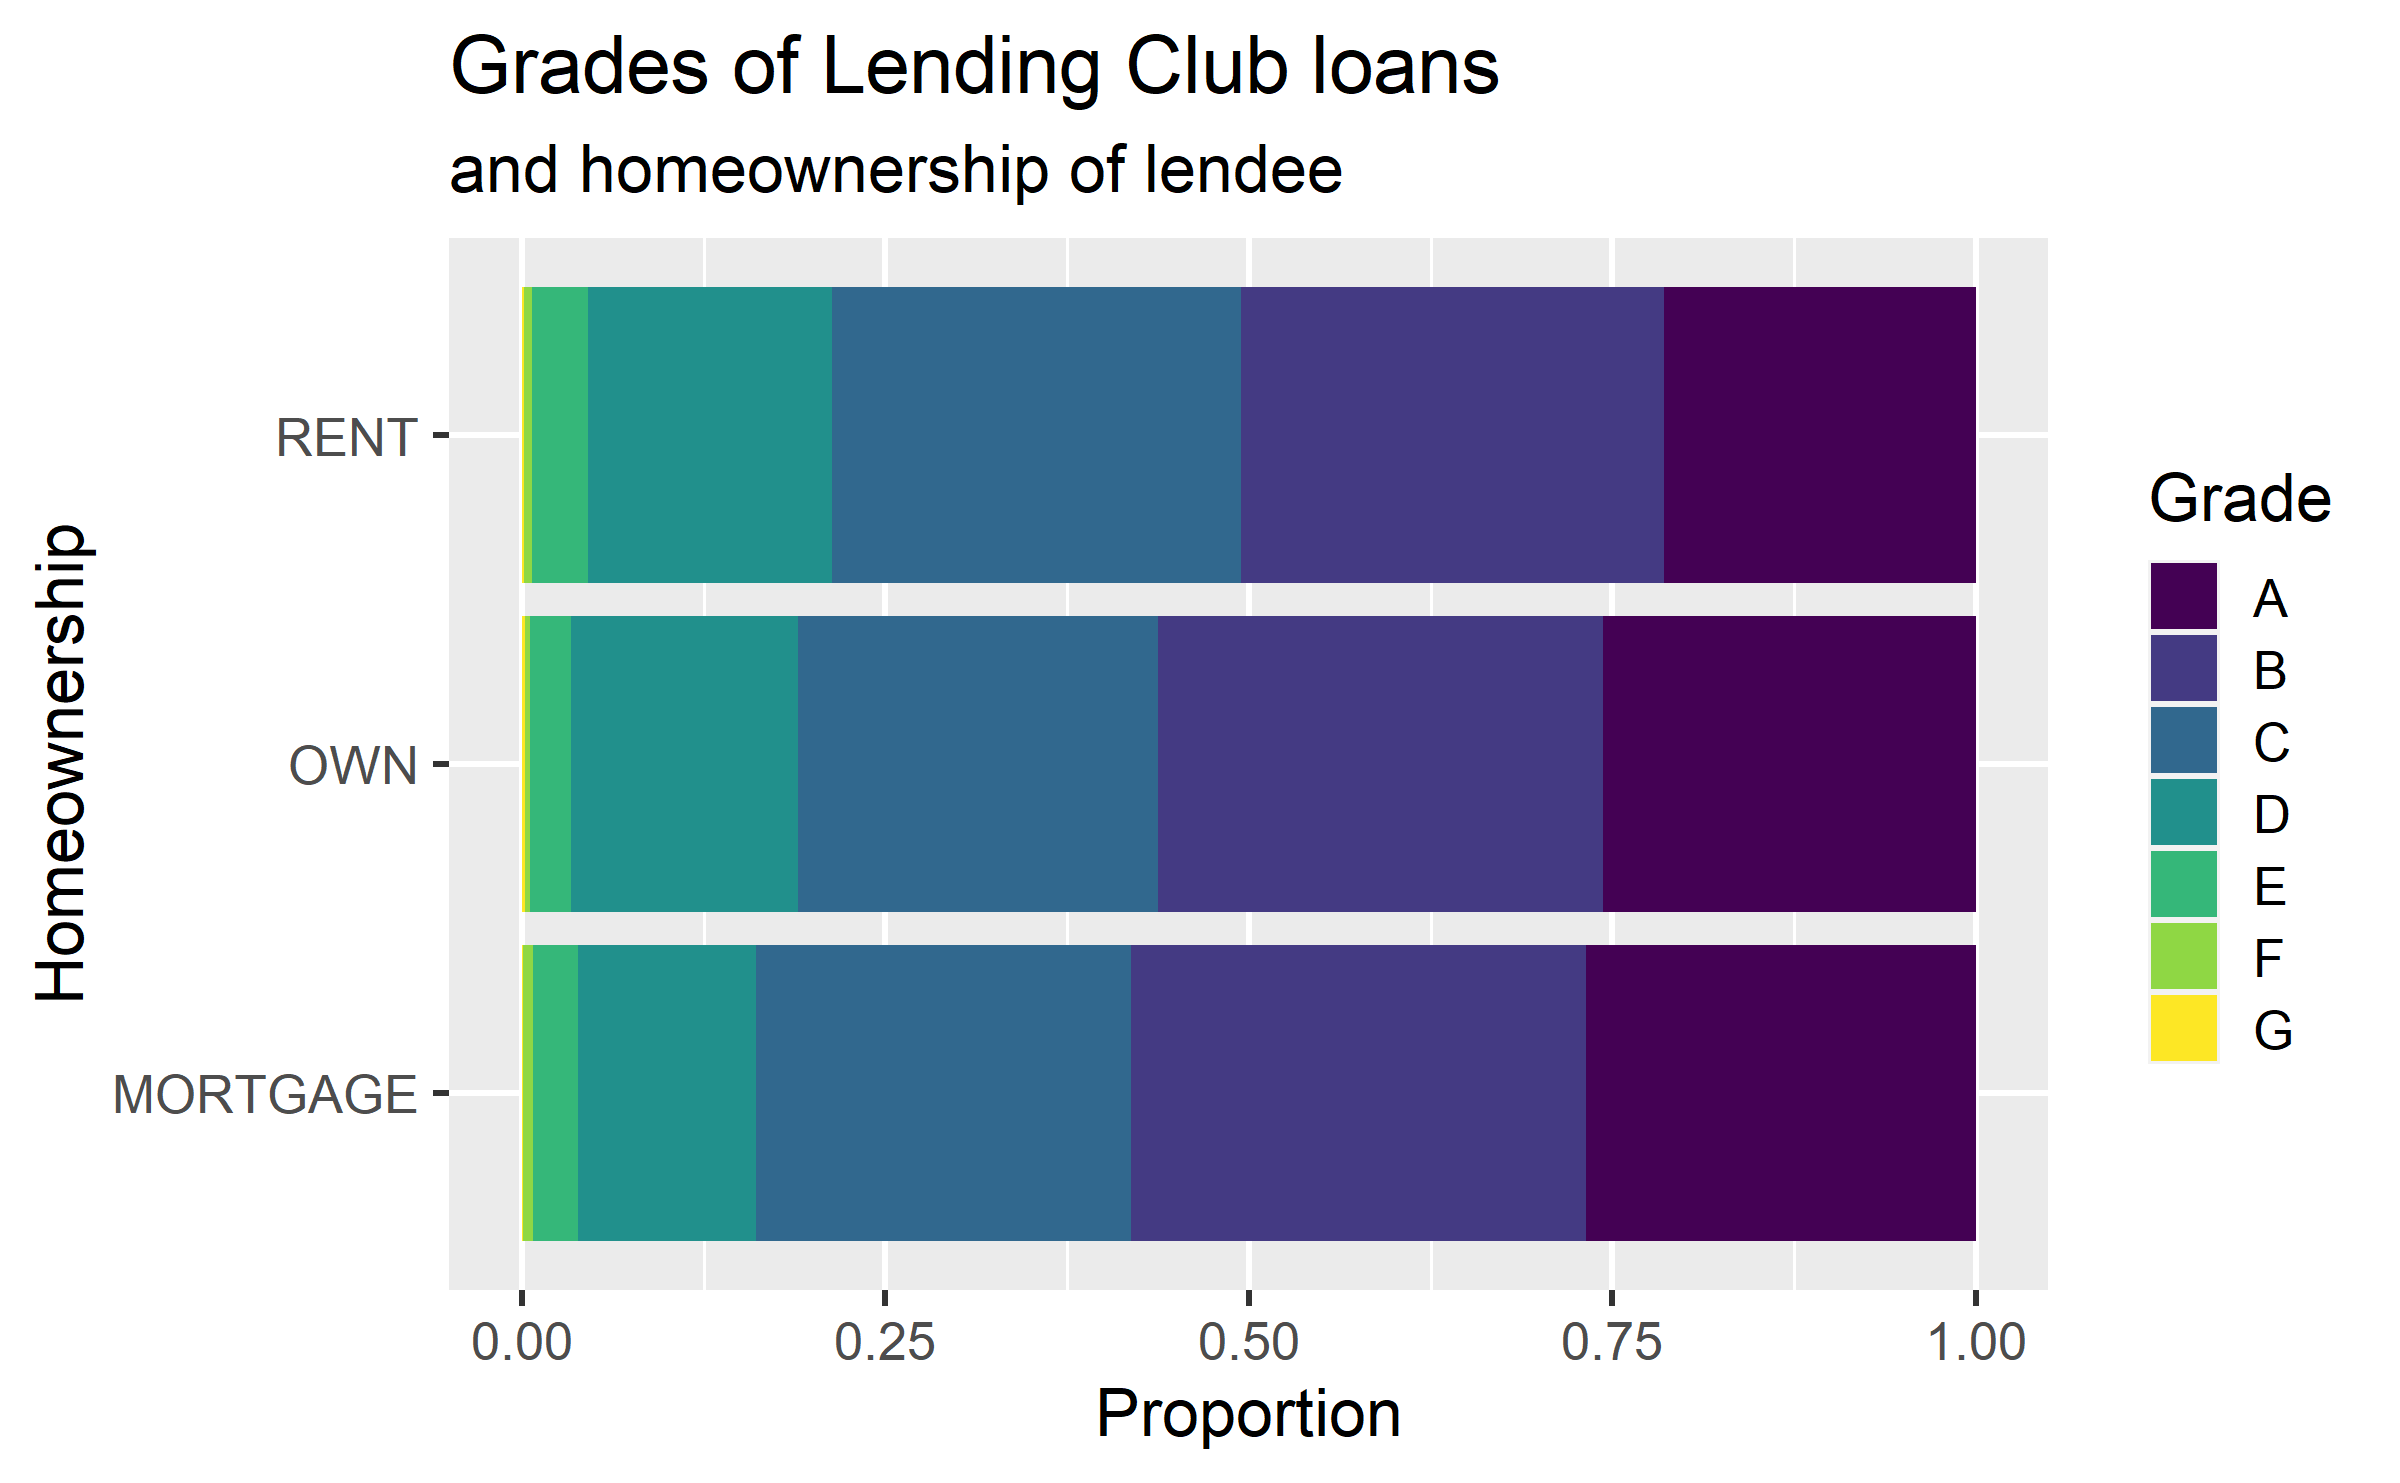
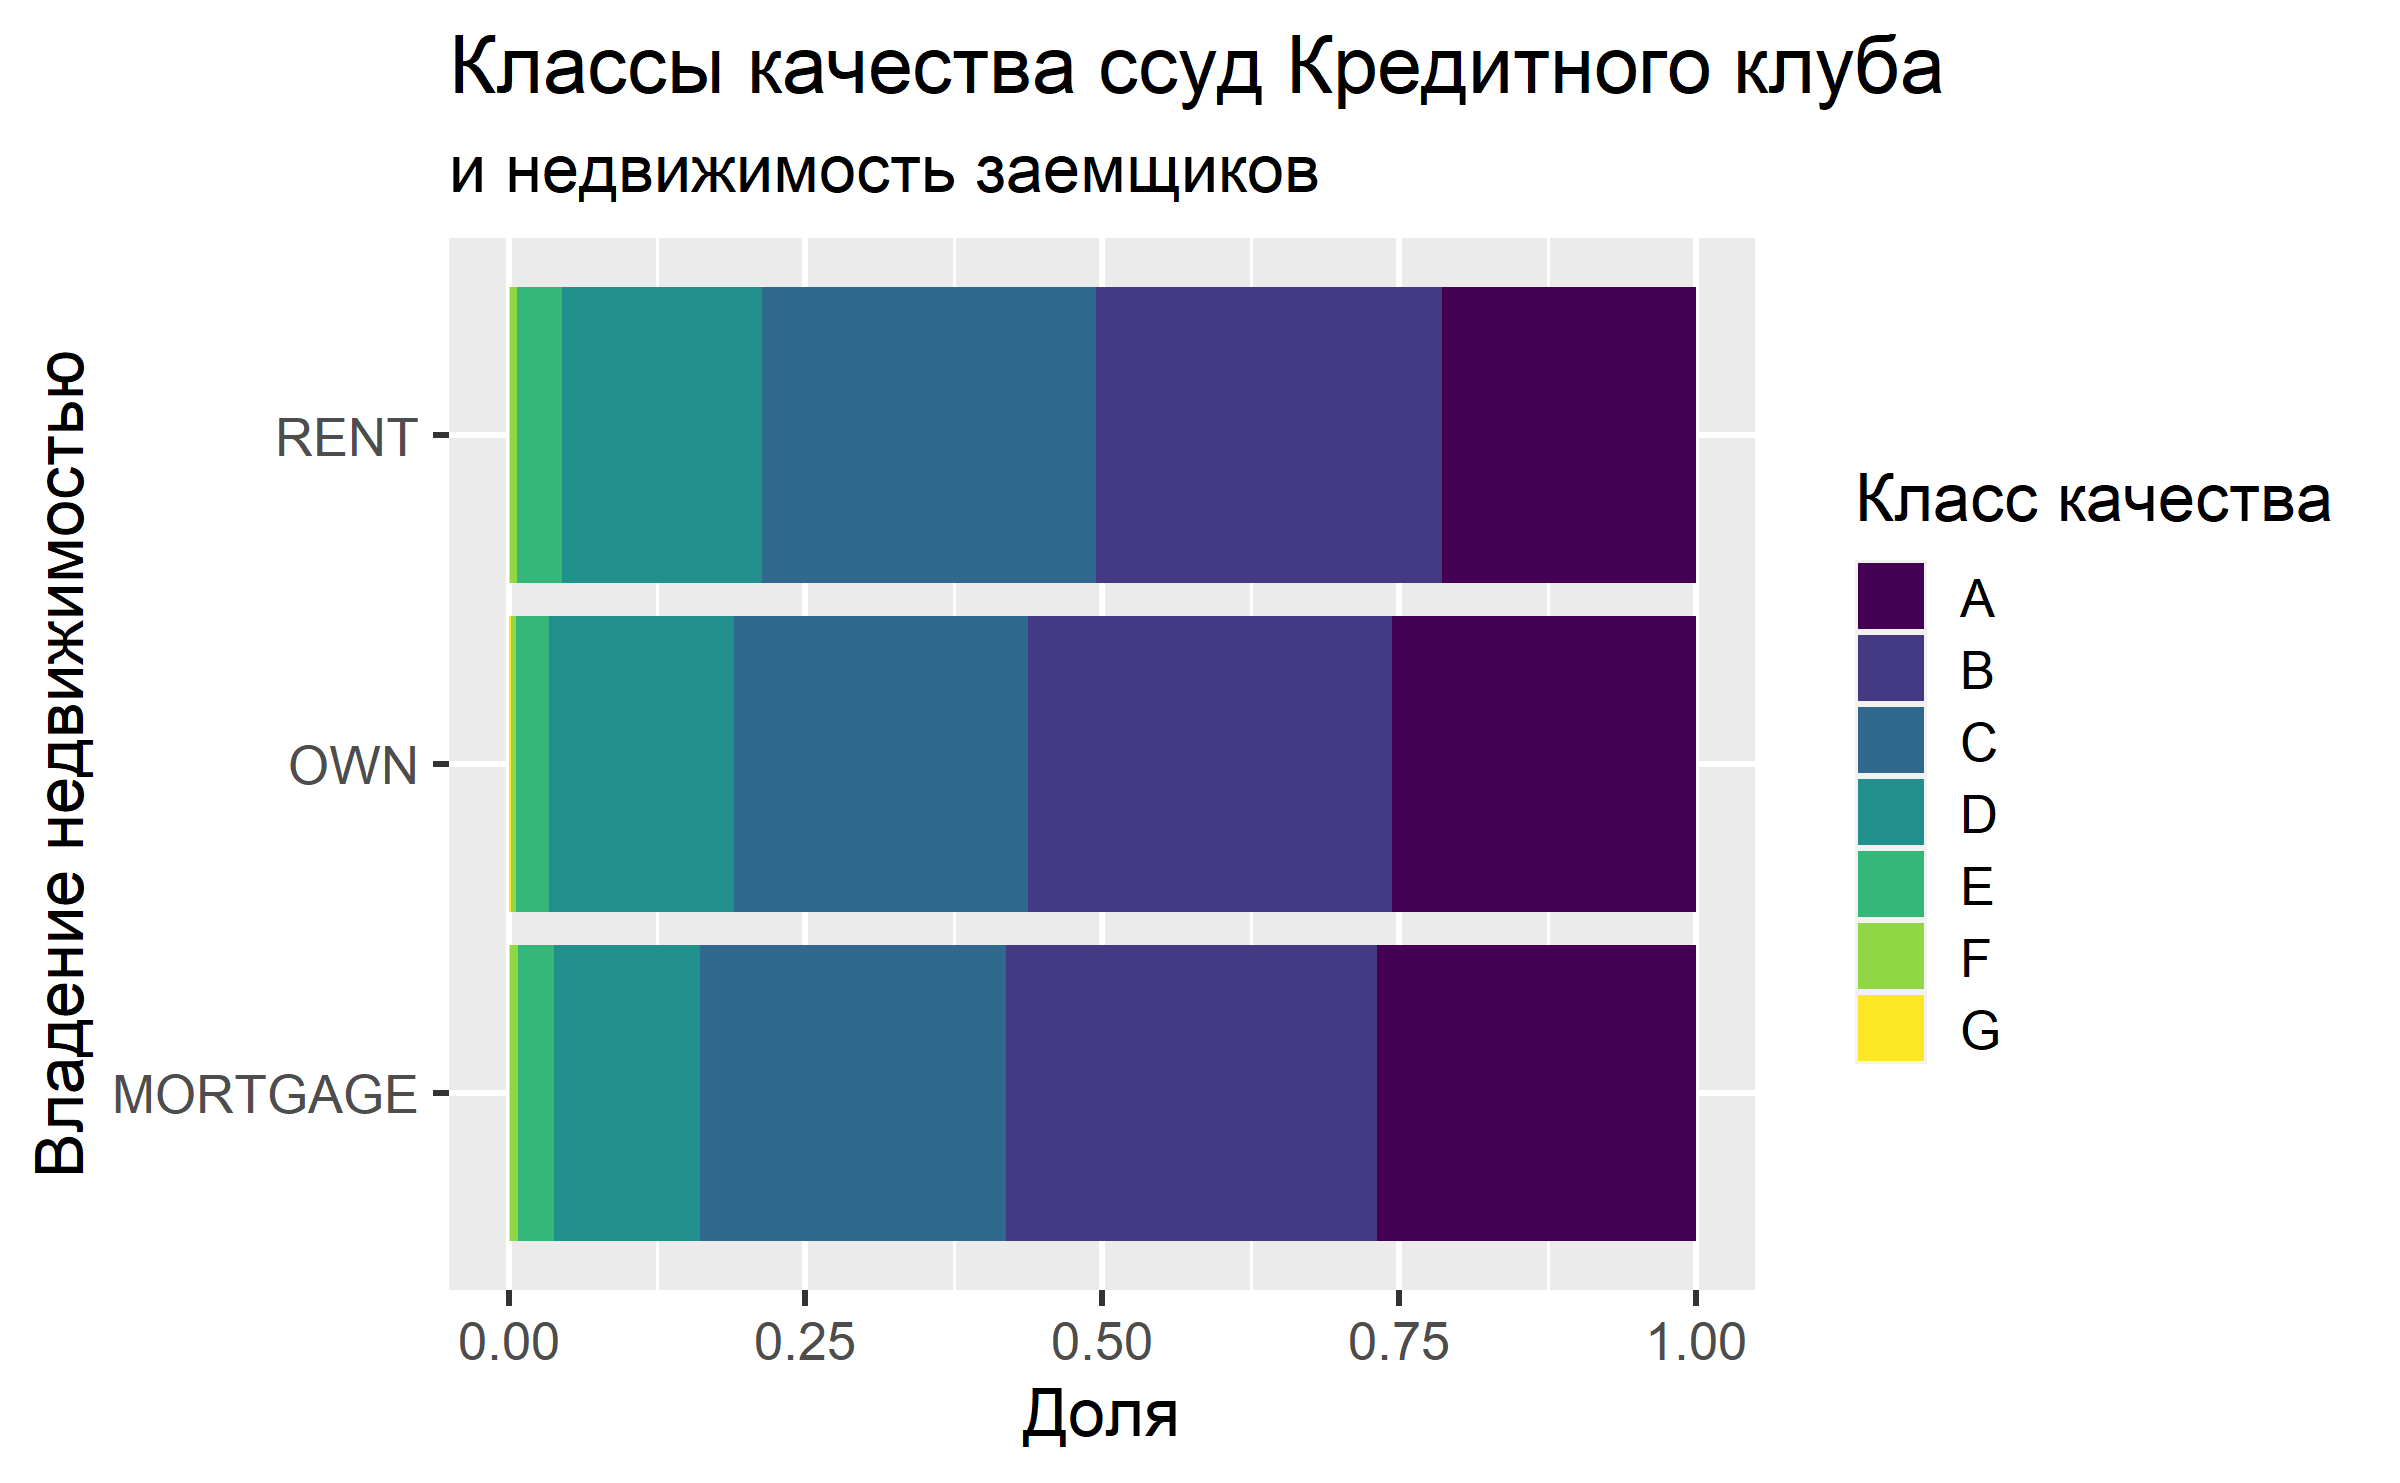
u2-d04 translation complete

diff --git a/course-materials/slides/u2-d04-viz-cat/u2-d04-viz-cat.html b/course-materials/slides/u2-d04-viz-cat/u2-d04-viz-cat.html
@@ -1,7 +1,7 @@
 <!DOCTYPE html>
 <html lang="" xml:lang="">
   <head>
-    <title>Visualising categorical data</title>
+    <title>Визуализация категориальных данных</title>
     <meta charset="utf-8" />
     <meta name="author" content="datasciencebox.org" />
     <script src="libs/header-attrs/header-attrs.js"></script>
@@ -16,7 +16,7 @@
     <textarea id="source">
 class: center, middle, inverse, title-slide
 
-# Visualising categorical data
+# Визуализация категориальных данных
 ## <br><br> Data Science in a Box
 ### <a href="https://datasciencebox.org/">datasciencebox.org</a>
 
@@ -40,18 +40,18 @@ layout: true
 
 class: middle
 
-# Recap
+# О типах переменных
 
 ---
 
-## Variables
+## Переменные
 
-- **Numerical** variables can be classified as **continuous** or **discrete** based on whether or not the variable can take on an infinite number of values or only non-negative whole numbers, respectively.
-- If the variable is **categorical**, we can determine if it is **ordinal** based on whether or not the levels have a natural ordering.
+- **Числовые** переменные могут быть разделены на **непрерывные** либо **дискретные** в зависимости от того, могут переменные принимать бесконечное число значений или только положительные целые числа (чаще всего).
+- Если переменная **категориальная**, она может быть **упорядоченной**, если ее уровни обладают естественным порядком.
 
 ---
 
-### Data 
+### Данные 
 
 
 ```r
@@ -79,11 +79,11 @@ glimpse(loans)
 
 class: middle
 
-# Bar plot
+# Столбчатый график
 
 ---
 
-## Bar plot
+## Столбчатый график
 
 
 ```r
@@ -95,7 +95,7 @@ ggplot(loans, aes(x = homeownership)) +
 
 ---
 
-## Segmented bar plot
+## Сегментированный столбчатый график
 
 
 ```r
@@ -108,7 +108,7 @@ ggplot(loans, aes(x = homeownership,
 
 ---
 
-## Segmented bar plot
+## Сегментированный столбчатый график
 
 
 ```r
@@ -121,7 +121,7 @@ ggplot(loans, aes(x = homeownership, fill = grade)) +
 ---
 
 .question[
-Which bar plot is a more useful representation for visualizing the relationship between homeownership and grade?
+Какой график полезнее для визуализации отношения между недвижимостью заемщика и классом качества ссуды?
 ]
 
 .pull-left[
@@ -133,7 +133,7 @@ Which bar plot is a more useful representation for visualizing the relationship 
 
 ---
 
-## Customizing bar plots
+## Настройка столбчатого графика
 
 .panelset[
 .panel[.panel-name[Plot]
@@ -146,11 +146,11 @@ Which bar plot is a more useful representation for visualizing the relationship 
                   fill = grade)) +
   geom_bar(position = "fill") +
 * labs(
-*   x = "Proportion",
-*   y = "Homeownership",
-*   fill = "Grade",
-*   title = "Grades of Lending Club loans",
-*   subtitle = "and homeownership of lendee"
+*   x = "Доля",
+*   y = "Владение недвижимостью",
+*   fill = "Класс качества",
+*   title = "Классы качества ссуд Кредитного клуба",
+*   subtitle = "и недвижимость заемщиков"
 * )
 ```
 ]
@@ -160,18 +160,18 @@ Which bar plot is a more useful representation for visualizing the relationship 
 
 class: middle
 
-# Relationships between numerical and categorical variables
+# Отношения между числовыми и категориальными переменными
 
 ---
 
-## Already talked about...
+## Уже проходили...
 
-- Colouring and faceting histograms and density plots
-- Side-by-side box plots
+- Раскрашенные и разделенные на панели гистограммы и графики плотности
+- Параллельные диаграммы размаха
 
 ---
 
-## Violin plots
+## Скрипичные графики (Violin plots)
 
 
 ```r
